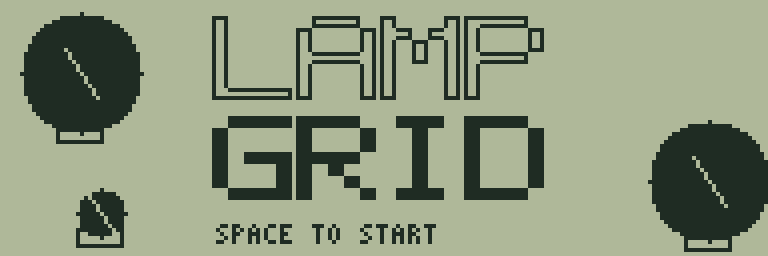
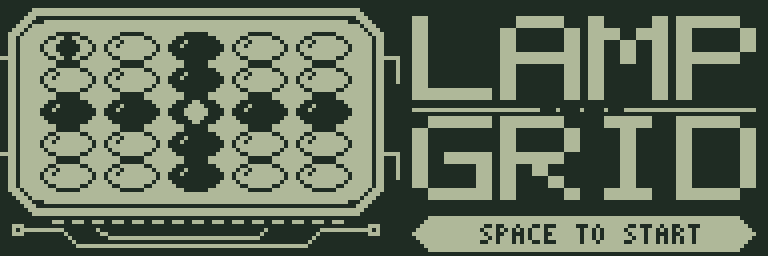
Redesign the LAMP GRID title as a lamp circuit panel

diff --git a/games/lamp-grid/title.py b/games/lamp-grid/title.py
@@ -1,0 +1,57 @@
+# SPDX-License-Identifier: MIT
+"""Original LCD title plate, using the same lenses as the playable panel."""
+from art import Bitmap
+from visual_art import poly, tiny, word
+
+
+def title_art(faces):
+    art = Bitmap()
+    art.rect(0, 0, 192, 64, 1, True)
+
+    # A pale, bevelled lamp module inset into the dark circuit board.
+    poly(art, [(8, 2), (89, 2), (95, 8), (95, 47),
+               (89, 53), (8, 53), (2, 47), (2, 8)], 0, True)
+    poly(art, [(9, 4), (88, 4), (93, 9), (93, 46),
+               (88, 51), (9, 51), (4, 46), (4, 9)])
+    for x in (9, 88):
+        art.line(x - 1, 5, x + 1, 5)
+        art.line(x - 1, 50, x + 1, 50)
+    for row in range(5):
+        for col in range(5):
+            # A lit cross and its two jewels introduce the game's motifs.
+            on = int(row == 2 or col == 2)
+            target = int((row, col) in ((0, 0), (2, 2)))
+            face = faces[target * 2 + on]
+            for y, pixels in enumerate(face.p):
+                for x, pixel in enumerate(pixels):
+                    art.dot(9 + col * 16 + x, 8 + row * 8 + y, pixel)
+
+    # Paired traces and terminal pads connect the module to the title plate.
+    for y in (14, 38):
+        art.line(0, y, 1, y, 0)
+        art.line(96, y, 99, y, 0)
+        art.line(99, y, 99, y + 6, 0)
+    for x in range(13, 88, 5):
+        art.line(x, 55, x + 2, 55, 0)
+    for points in (
+        [(6, 57), (15, 57), (19, 61), (76, 61), (80, 57), (91, 57)],
+        [(24, 57), (28, 59), (64, 59), (66, 57)],
+    ):
+        for a, b in zip(points, points[1:]):
+            art.line(*a, *b, 0)
+    for x in (4, 93):
+        art.rect(x - 1, 56, 3, 3, 0)
+
+    # Solid lettering remains readable at the LCD's native resolution.
+    word(art, 'LAMP', 103, 4, 4, 3, 'block', 0, 2)
+    word(art, 'GRID', 103, 29, 4, 3, 'block', 0, 2)
+    art.line(103, 27, 134, 27, 0)
+    art.line(156, 27, 188, 27, 0)
+    for x in (139, 145, 151):
+        art.dot(x, 27, 0)
+
+    # The sole instruction is a key-shaped start badge below the logo.
+    poly(art, [(107, 54), (184, 54), (188, 58),
+               (184, 62), (107, 62), (103, 58)], 0, True)
+    tiny(art, 'SPACE TO START', 120, 56)
+    return art

diff --git a/games/lamp-grid/generate.py b/games/lamp-grid/generate.py
@@ -6,6 +6,7 @@ from grid_assets import assets, Bitmap, asm_bytes
 
 from puzzle_assets import campaign, level_records, challenge_data, pack
 from hud import panel_art
+from title import title_art
 root=Path(__file__).parent
 levels=campaign(root)
 sprites=[]
@@ -42,3 +43,8 @@ data=level_records([s['initial']['board'] for s in levels])+challenge_data(root,
 data+=f'.equ LAMP_CURSOR_TILE_OFFSET,{cursor_offset}\n'
 data+=asm_bytes('lamp_panel_art',pack(panel_art(sprites).bytes()))
 assets(root,'LAMP GRID','lamp-grid',5,5,2,1,sprites,40,data)
+# Keep this game's title source and rebuild dependency local to LAMP GRID.
+source=(root/'assets.s').read_text()
+header,body=source.split('title_art:\n',1)
+_,body=body.split('tiles:\n',1)
+(root/'assets.s').write_text(header+asm_bytes('title_art',title_art(sprites).bytes())+'tiles:\n'+body)
